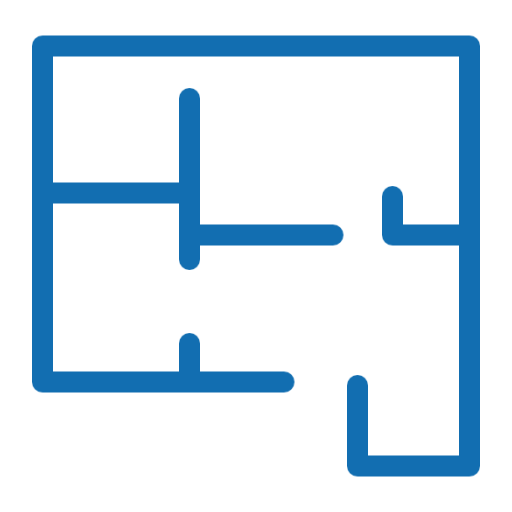
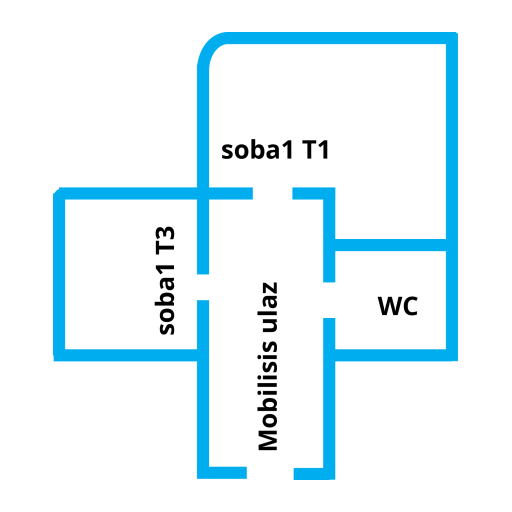
Početni ekran - prikaz mijenjanja pozicije na planu zgrade

Changed region(s): [[0.0625, 0.0625, 0.9375, 0.9375], [0.7188, 0.5625, 0.8125, 0.625]]

diff --git a/IndoorTracking/app/src/main/java/hr/foi/indoortracking/MainActivity.java b/IndoorTracking/app/src/main/java/hr/foi/indoortracking/MainActivity.java
@@ -22,6 +22,7 @@ import android.view.Menu;
 import android.view.MenuItem;
 import android.view.View;
 import android.widget.Button;
+import android.widget.ImageView;
 import android.widget.TextView;
 import android.widget.Toast;
 
@@ -73,10 +74,27 @@ public class MainActivity extends AppCompatActivity
         txtCurrentLocation = (TextView) findViewById(R.id.txtCurrentLocation);
         if (LoggedUser.getUser().getUserModel().getCurrentLocarion() != "") {
             txtCurrentLocation.setText(LoggedUser.getUser().getUserModel().getCurrentLocarion());
+            if(txtCurrentLocation.getText().toString().equals("Mobilisis Ulaz")) {
+                ImageView img= (ImageView) findViewById(R.id.imageView_plan);
+                img.setImageResource(R.mipmap.ulaz);
+            } else if (txtCurrentLocation.getText().toString().equals("soba1 T1")) {
+                ImageView img= (ImageView) findViewById(R.id.imageView_plan);
+                img.setImageResource(R.mipmap.soba1);
+                } else if (txtCurrentLocation.getText().toString().equals("soba1 T3")) {
+                    ImageView img= (ImageView) findViewById(R.id.imageView_plan);
+                    img.setImageResource(R.mipmap.t3);
+                        } else if (txtCurrentLocation.getText().toString().equals("Wc")) {
+                            ImageView img= (ImageView) findViewById(R.id.imageView_plan);
+                            img.setImageResource(R.mipmap.wc);
+                        } else {
+                            ImageView img= (ImageView) findViewById(R.id.imageView_plan);
+                            img.setImageResource(R.mipmap.plan);
+                        }
         }
         //txtCurrentLocation.setText("Traženje...");
         txtCurrentLocationDesc = (TextView) findViewById(R.id.txtCurrentLocationOpis);
         txtCategory = (TextView) findViewById(R.id.txtCategory);
+
 
         txtCategory.setText("");
         txtCurrentLocationDesc.setText("");
@@ -118,6 +136,22 @@ public class MainActivity extends AppCompatActivity
                 txtCurrentLocation.setText(nazivLokacija);
                 txtCategory.setText(kategorija);
                 txtCurrentLocationDesc.setText(opisLokacija);
+                if(nazivLokacija.toString().equals("Mobilisis Ulaz")) {
+                    ImageView img= (ImageView) findViewById(R.id.imageView_plan);
+                    img.setImageResource(R.mipmap.ulaz);
+                } else if (nazivLokacija.toString().equals("soba1 T1")) {
+                    ImageView img= (ImageView) findViewById(R.id.imageView_plan);
+                    img.setImageResource(R.mipmap.soba1);
+                } else if (nazivLokacija.toString().equals("soba1 T3")) {
+                    ImageView img= (ImageView) findViewById(R.id.imageView_plan);
+                    img.setImageResource(R.mipmap.t3);
+                } else if (nazivLokacija.toString().equals("Wc")) {
+                    ImageView img= (ImageView) findViewById(R.id.imageView_plan);
+                    img.setImageResource(R.mipmap.wc);
+                } else {
+                    ImageView img= (ImageView) findViewById(R.id.imageView_plan);
+                    img.setImageResource(R.mipmap.plan);
+                }
 
                 //Toast.makeText(MainActivity.this, "Sada se nalazite na " + nazivLokacija, Toast.LENGTH_LONG).show();
             }
